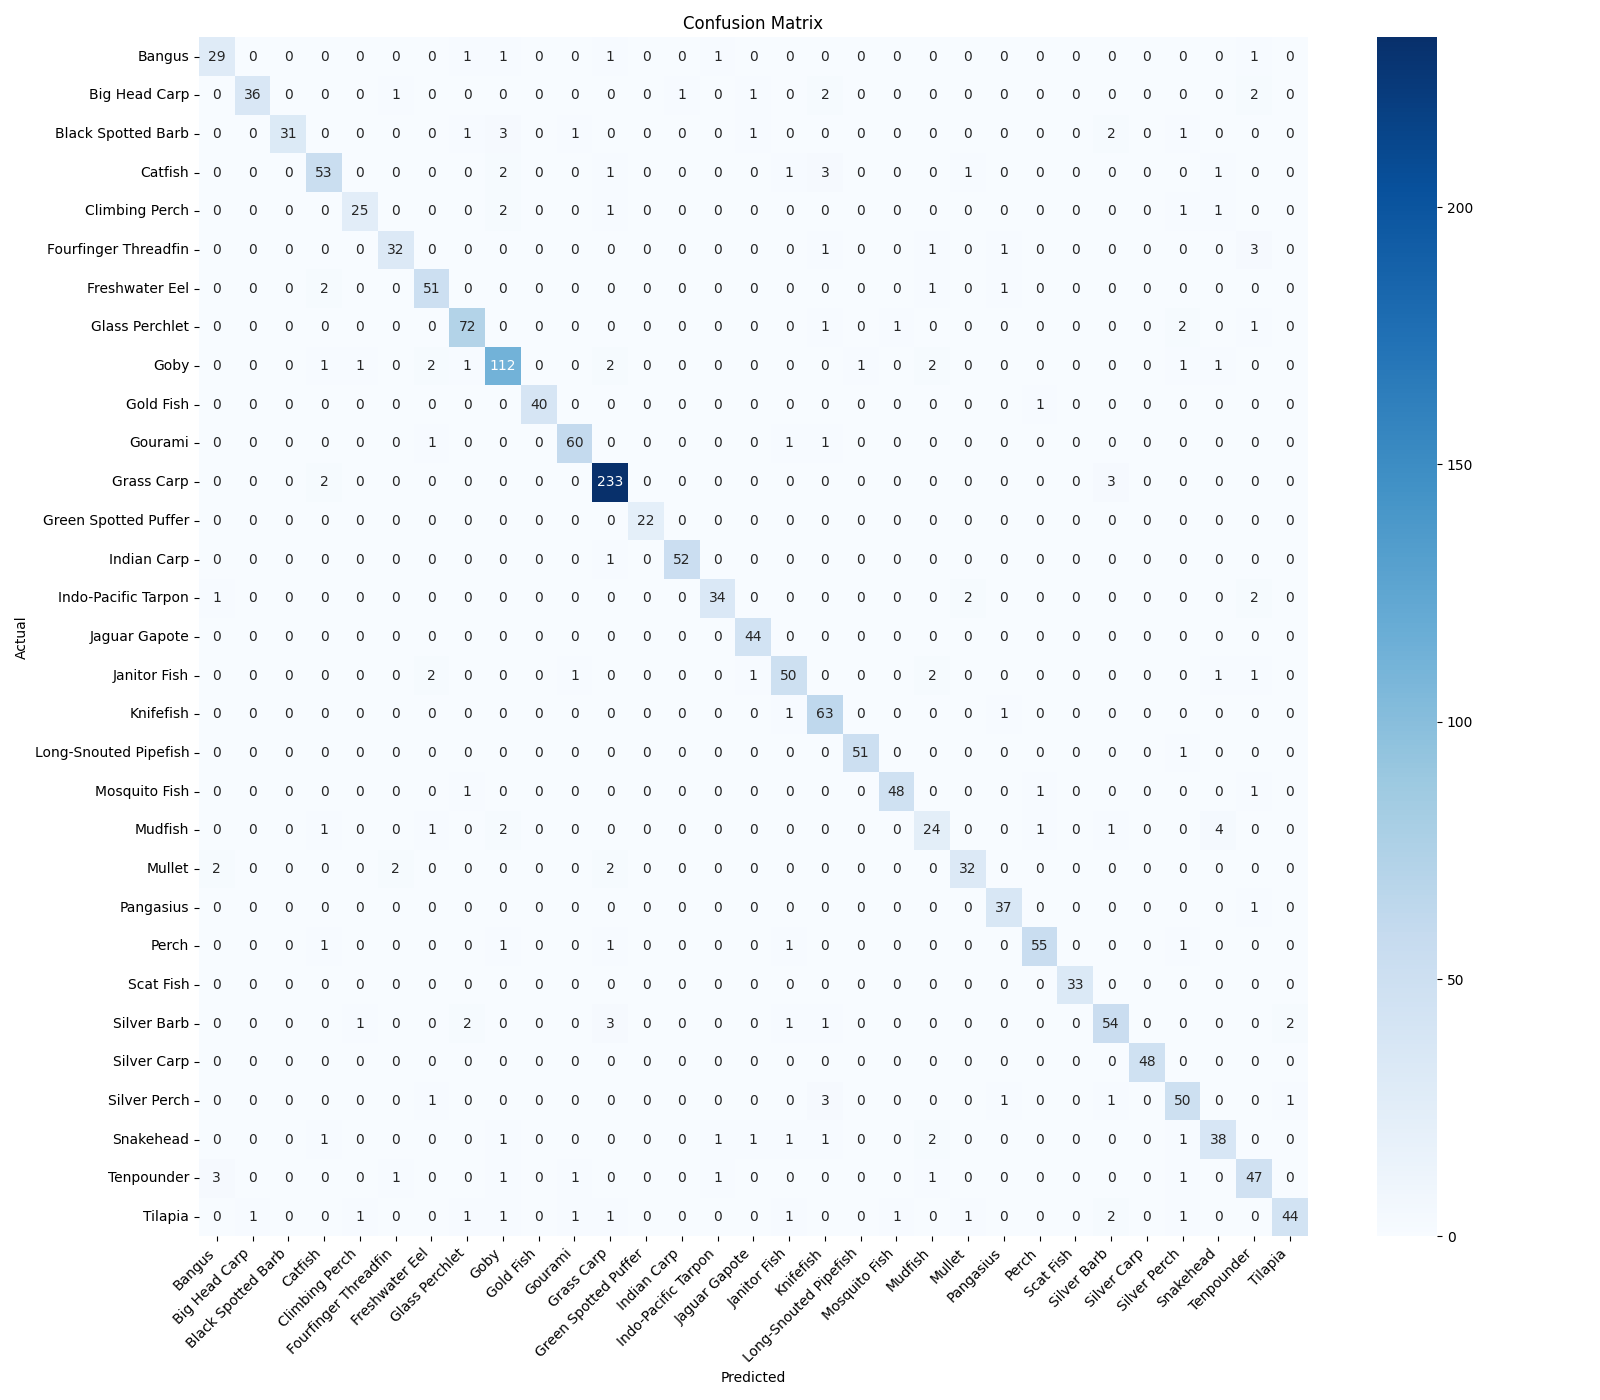
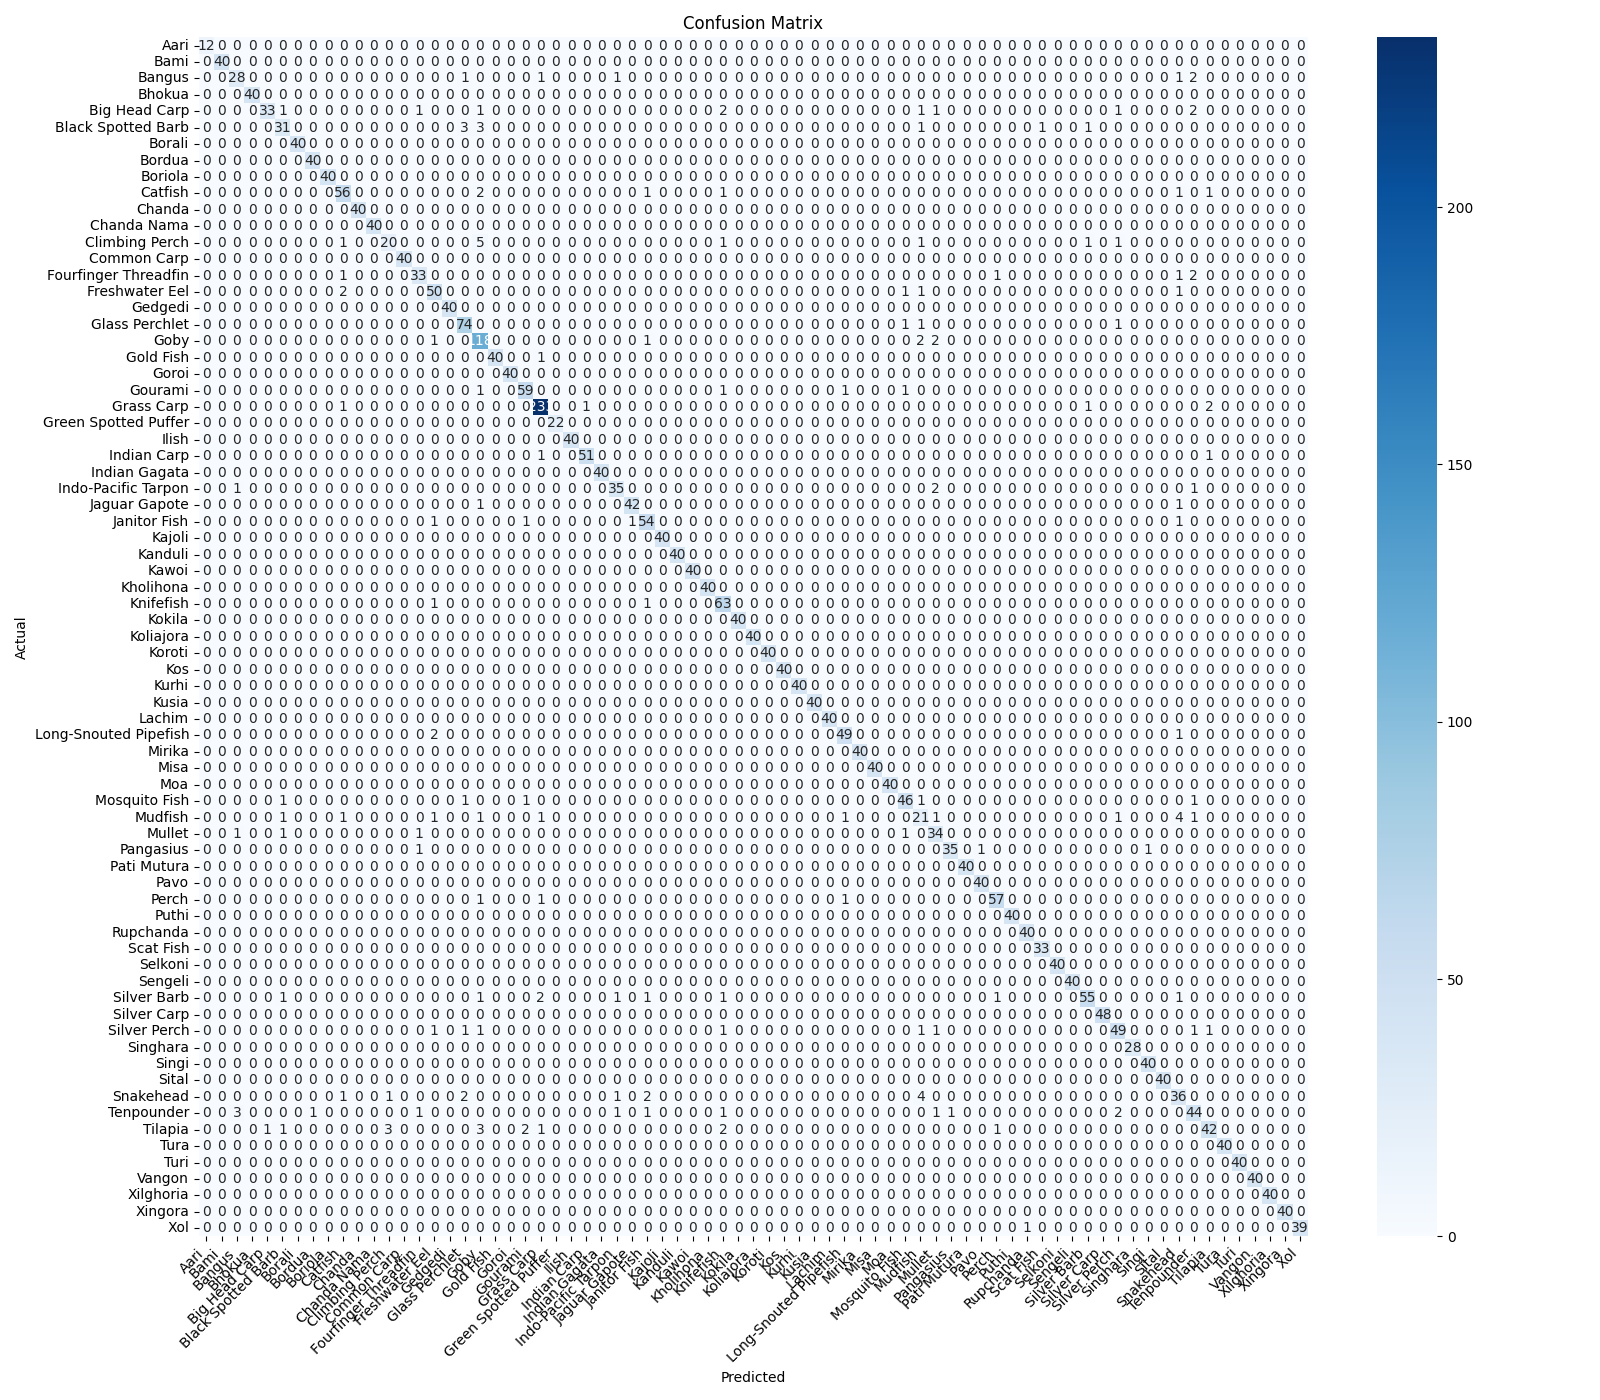
Retrain with 73 species - 95% test accuracy

Changed region(s): [[0.0312, 0.0307, 0.8125, 0.9829]]

diff --git a/src/merge_datasets.py b/src/merge_datasets.py
@@ -1,0 +1,170 @@
+# =============================================================
+# merge_datasets.py  —  Combine existing + Assam fish datasets
+# =============================================================
+# What this file does:
+#   1. Reads new Assam species folders
+#   2. Skips duplicates with existing dataset
+#   3. Randomly picks 485 images per new species
+#   4. Splits into train(380)/val(65)/test(40)
+#   5. Copies into existing dataset structure
+# =============================================================
+
+import os
+import shutil
+import random
+
+# ── Paths ─────────────────────────────────────────────────────
+ASSAM_DIR    = r"C:\Users\ravib\ML_Data_Set\AS-FishFresh_Augmented_dataset"
+EXISTING_DIR = r"C:\Users\ravib\ML_Data_Set\Fish_Image_Data"
+
+# ── Split sizes ───────────────────────────────────────────────
+TRAIN_COUNT = 380
+VAL_COUNT   = 65
+TEST_COUNT  = 40
+
+# ── Known duplicates to skip ──────────────────────────────────
+# Assam folder name : existing dataset folder name
+DUPLICATES = {
+    "GRASS CARP"  : "Grass Carp",
+    "silvercarp"  : "Silver Carp",
+    "bighead"     : "Big Head Carp",
+    "rou"         : "Indian Carp",
+    "basa"        : "Pangasius",
+    "magur"       : "Catfish",
+}
+
+# ── Naming fixes ──────────────────────────────────────────────
+# Assam folder name : clean name to use in combined dataset
+NAME_FIXES = {
+    "aari"        : "Aari",
+    "aari2"       : "Aari",        # merge with aari
+    "bami"        : "Bami",
+    "bhokua"      : "Bhokua",
+    "borali"      : "Borali",
+    "bordua"      : "Bordua",
+    "boriola"     : "Boriola",
+    "chanda"      : "Chanda",
+    "chanda nama" : "Chanda Nama",
+    "commom carp" : "Common Carp",  # fix typo
+    "gedgedi"     : "Gedgedi",
+    "goroi"       : "Goroi",
+    "ILISH"       : "Ilish",
+    "indian gagata": "Indian Gagata",
+    "kajoli"      : "Kajoli",
+    "kanduli"     : "Kanduli",
+    "KAWOI"       : "Kawoi",
+    "kholihona"   : "Kholihona",
+    "KOKILA"      : "Kokila",
+    "koliajora"   : "Koliajora",
+    "KOROTI"      : "Koroti",
+    "KOS"         : "Kos",
+    "kurhi"       : "Kurhi",
+    "kusia"       : "Kusia",
+    "lachim"      : "Lachim",
+    "mirika"      : "Mirika",
+    "misa"        : "Misa",
+    "moa"         : "Moa",
+    "PATI MUTURA" : "Pati Mutura",
+    "pavo"        : "Pavo",
+    "puthi"       : "Puthi",
+    "rupchanda"   : "Rupchanda",
+    "selkoni"     : "Selkoni",
+    "sengeli"     : "Sengeli",
+    "singi"       : "Singi",
+    "sital"       : "Sital",
+    "tura"        : "Tura",
+    "turi"        : "Turi",
+    "vangon"      : "Vangon",
+    "xilghoria"   : "Xilghoria",
+    "xingora"     : "Xingora",
+    "xol"         : "Xol",
+}
+
+def get_images(folder):
+    """Get all image files from a folder."""
+    exts = {".jpg", ".jpeg", ".png", ".bmp"}
+    return [f for f in os.listdir(folder)
+            if os.path.splitext(f)[1].lower() in exts]
+
+def copy_images(src_folder, images, dest_folder):
+    """Copy list of images to destination folder."""
+    os.makedirs(dest_folder, exist_ok=True)
+    for img in images:
+        shutil.copy2(
+            os.path.join(src_folder, img),
+            os.path.join(dest_folder, img)
+        )
+
+def merge():
+    random.seed(42)  # reproducible splits
+
+    assam_folders = os.listdir(ASSAM_DIR)
+    print(f"Assam species folders found: {len(assam_folders)}")
+
+    # Track merged species (handle aari + aari2)
+    merged_species = {}  # clean_name → list of images already copied
+
+    skipped  = []
+    added    = []
+
+    for folder in assam_folders:
+        folder_path = os.path.join(ASSAM_DIR, folder)
+        if not os.path.isdir(folder_path):
+            continue
+
+        # ── Skip duplicates ────────────────────────────────────
+        if folder in DUPLICATES:
+            print(f"  SKIP (duplicate): {folder}")
+            skipped.append(folder)
+            continue
+
+        # ── Get clean name ─────────────────────────────────────
+        clean_name = NAME_FIXES.get(folder, folder.title())
+
+        # ── Get images ─────────────────────────────────────────
+        images = get_images(folder_path)
+        print(f"  Processing: {folder} → {clean_name} ({len(images)} images)")
+
+        # ── Handle aari + aari2 merge ──────────────────────────
+        if clean_name in merged_species:
+            merged_species[clean_name].extend(
+                [os.path.join(folder_path, img) for img in images]
+            )
+            continue
+        else:
+            merged_species[clean_name] = [
+                os.path.join(folder_path, img) for img in images
+            ]
+
+    # ── Now split and copy each species ───────────────────────
+    for clean_name, all_paths in merged_species.items():
+        random.shuffle(all_paths)
+        total_needed = TRAIN_COUNT + VAL_COUNT + TEST_COUNT
+
+        if len(all_paths) < total_needed:
+            print(f"  WARNING: {clean_name} has only {len(all_paths)} images, skipping")
+            continue
+
+        train_imgs = all_paths[:TRAIN_COUNT]
+        val_imgs   = all_paths[TRAIN_COUNT:TRAIN_COUNT + VAL_COUNT]
+        test_imgs  = all_paths[TRAIN_COUNT + VAL_COUNT:total_needed]
+
+        for split, imgs in [("train", train_imgs),
+                             ("val",   val_imgs),
+                             ("test",  test_imgs)]:
+            dest = os.path.join(EXISTING_DIR, split, clean_name)
+            os.makedirs(dest, exist_ok=True)
+            for src_path in imgs:
+                shutil.copy2(src_path, os.path.join(dest,
+                             os.path.basename(src_path)))
+
+        added.append(clean_name)
+        print(f"  Added: {clean_name} → train:{TRAIN_COUNT} val:{VAL_COUNT} test:{TEST_COUNT}")
+
+    print(f"\nDone.")
+    print(f"  Skipped (duplicates) : {len(skipped)} — {skipped}")
+    print(f"  New species added    : {len(added)}")
+    print(f"  Total species now    : {31 + len(added)}")
+
+if __name__ == "__main__":
+    merge()
